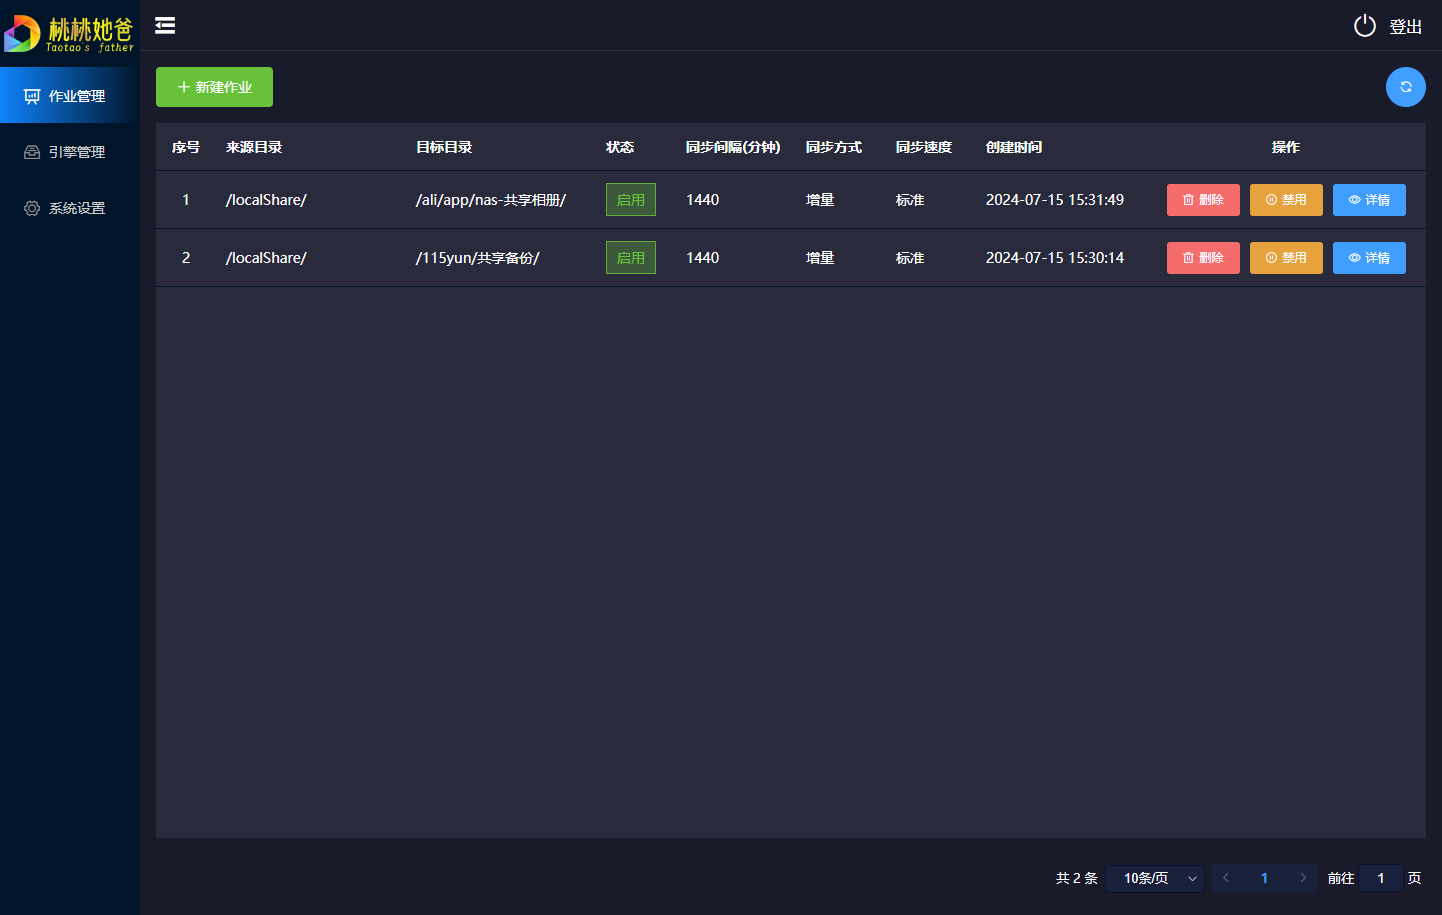
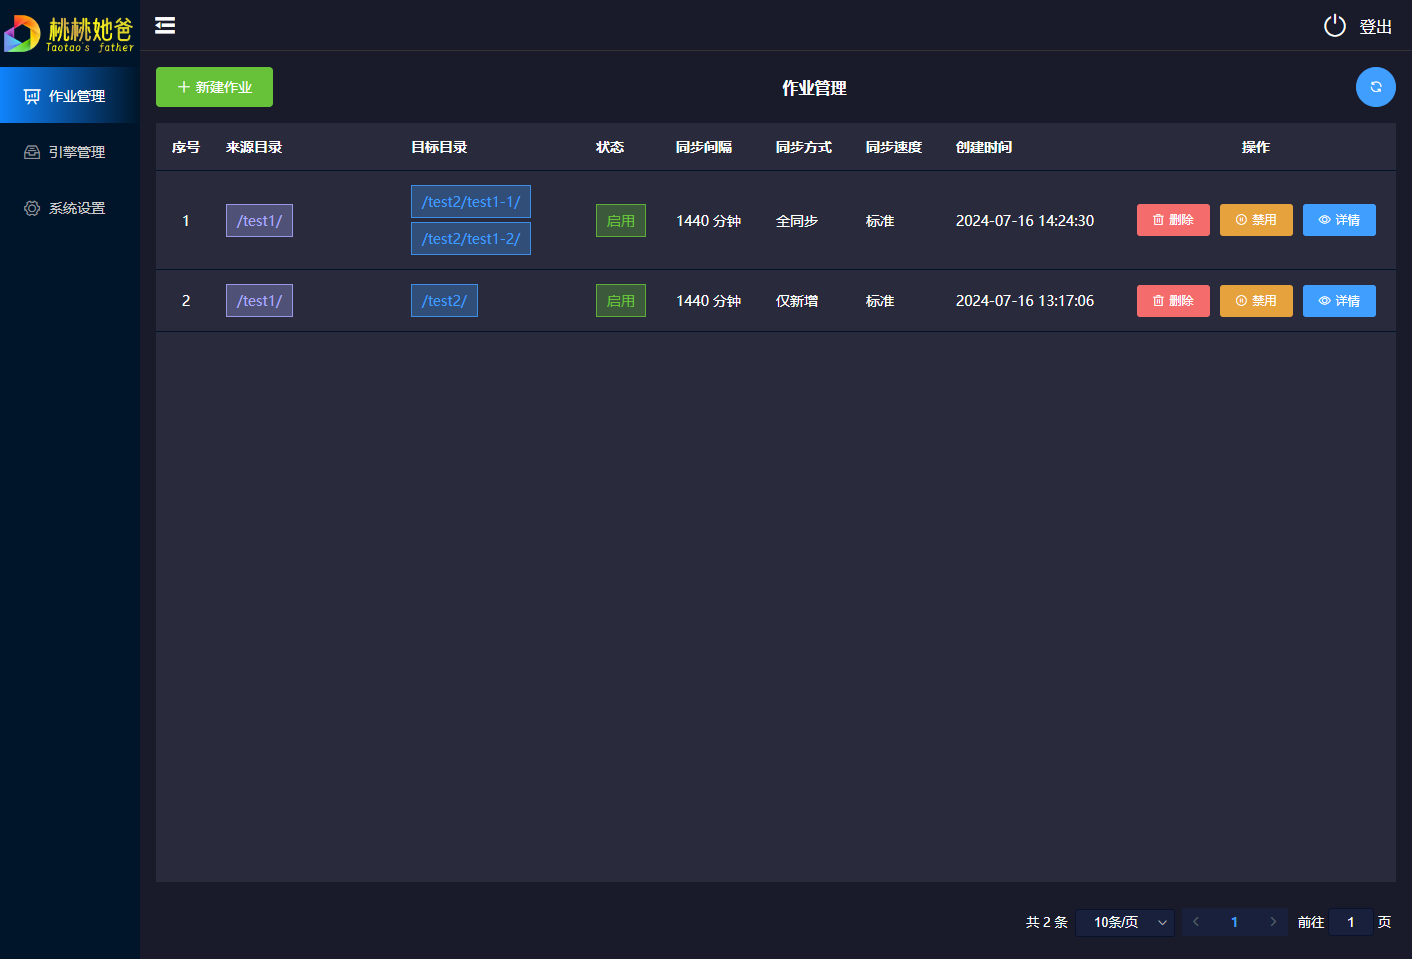
update to 0.1.2

diff --git a/README.md b/README.md
@@ -1,11 +1,11 @@
 # taosync
-tao-sync是一个适用于AList V3的自动化同步工具，目前正处于早期版本，出于安全考虑暂不开源，待系统完善到一定程度后再开源
+tao-sync是一个适用于AList V3的自动化同步工具，目前正处于早期版本，出于安全考虑暂不开源，待系统完善到一定程度后再开源。
 
-本工具主要用于同步备份功能，可以定时扫描指定目录下文件差异，让目标目录与源目录相同（全同步模式）；或仅新增存在于源目录，却不存在于目标目录的文件（仅新增模式）
+本工具主要用于同步备份功能，可以定时扫描指定目录下文件差异，让目标目录与源目录相同（全同步模式）；或仅新增存在于源目录，却不存在于目标目录的文件（仅新增模式）。
 
 桃桃是我女儿的名字，我女儿的名字叫桃桃。本工具以我女儿的名字命名，意为：桃桃的自动同步工具
 
-# 警告！不要在外网暴露本系统！本系统目前仅靠强密码来保证安全，若您使用弱密码，毫无安全可言！
+**警告！不要在外网暴露本系统，否则后果自负！如确实需要，请使用强密码！**
 
 ## 须知
 
@@ -52,6 +52,14 @@ docker run -d -p 8023:8023 -v /opt/data:/app/data --name=taoSync dr34m/tao-sync:
 ![任务详情](README/任务详情.png)
 
 # 更新记录
+
+### 0.1.2（2024-07-16）
+
+* 数据攒齐批量入库，牺牲一点点的实时性但是可以显著提高性能，降低数据库锁定的可能性
+* 作业详情（即任务列表）增加任务状态显示，可以展示`总文件数`、`成功`、`进行中`、`等待中`、`失败`、`其他`的数量
+* 新建作业-同步间隔显示单位分钟
+* 新建作业-部分选项增加提示
+* 支持选择多个目标目录，方便一目录同步到多目录
 
 ### 0.1.1（2024-07-16）
 
